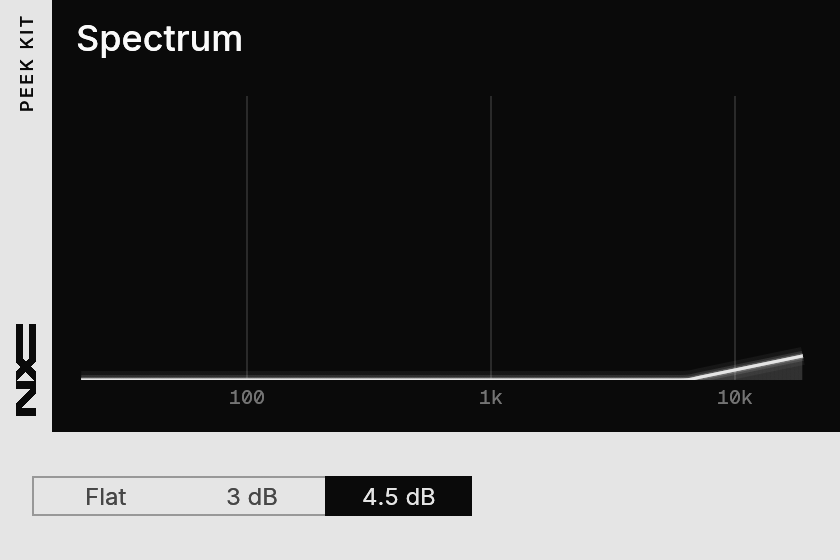
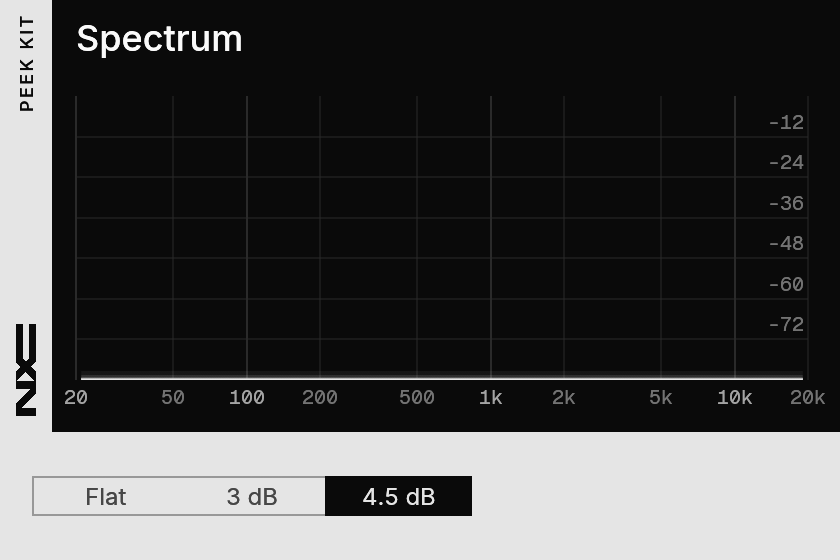
fix: keep a silent spectrum on the floor and add its scales

diff --git a/plugins/peek/peek-ui/src/spectrum.rs b/plugins/peek/peek-ui/src/spectrum.rs
@@ -24,20 +24,68 @@ pub fn centre(index: usize, bands: usize) -> f32 {
 }
 
 pub fn axis(ui: &Ui, palette: &Palette, rect: Rect) {
-    let painter = ui.painter_at(rect.expand(12.0));
-    for (hz, text) in [(100.0, "100"), (1_000.0, "1k"), (10_000.0, "10k")] {
+    let painter = ui.painter_at(rect.expand(14.0));
+    let labels = font::mono(FONT_VALUE);
+    // Every 1-2-5 step gets a line; the decades are stronger and every step
+    // that fits gets its figure.
+    let mut last_label = f32::NEG_INFINITY;
+    for (hz, text) in [
+        (20.0, "20"),
+        (50.0, "50"),
+        (100.0, "100"),
+        (200.0, "200"),
+        (500.0, "500"),
+        (1_000.0, "1k"),
+        (2_000.0, "2k"),
+        (5_000.0, "5k"),
+        (10_000.0, "10k"),
+        (20_000.0, "20k"),
+    ] {
         let x = rect.left() + x_of(hz) * rect.width();
+        let decade = text.starts_with('1') || hz == 20.0;
         painter.line_segment(
             [pos2(x, rect.top()), pos2(x, rect.bottom())],
-            Stroke::new(1.0, palette.line.color()),
+            Stroke::new(
+                1.0,
+                if decade {
+                    palette.line
+                } else {
+                    palette.line.at(0.5)
+                }
+                .color(),
+            ),
+        );
+        if x - last_label >= 26.0 {
+            last_label = x;
+            painter.text(
+                pos2(x, rect.bottom() + 2.0),
+                Align2::CENTER_TOP,
+                text,
+                labels.clone(),
+                if decade {
+                    palette.muted
+                } else {
+                    palette.subtle
+                }
+                .color(),
+            );
+        }
+    }
+    let mut db = TOP_DB - 12.0;
+    while db > FLOOR_DB {
+        let y = rect.bottom() - (db - FLOOR_DB) / (TOP_DB - FLOOR_DB) * rect.height();
+        painter.line_segment(
+            [pos2(rect.left(), y), pos2(rect.right(), y)],
+            Stroke::new(1.0, palette.line.at(0.5).color()),
         );
         painter.text(
-            pos2(x, rect.bottom() + 2.0),
-            Align2::CENTER_TOP,
-            text,
-            font::mono(FONT_VALUE),
+            pos2(rect.right() - 2.0, y - 1.0),
+            Align2::RIGHT_BOTTOM,
+            format!("{db:.0}"),
+            labels.clone(),
             palette.subtle.color(),
         );
+        db -= 12.0;
     }
 }
 
@@ -53,9 +101,12 @@ pub fn figure<const BANDS: usize>(
         .iter()
         .enumerate()
         .map(|(index, level)| {
-            let tilted = crate::decibels(*level).unwrap_or(FLOOR_DB - 12.0)
-                + tilt * (centre(index, BANDS) / 1_000.0).log2();
-            ((tilted - FLOOR_DB) / (TOP_DB - FLOOR_DB)).clamp(0.0, 1.0)
+            // Silence stays on the floor: tilting it lifted the top end of a
+            // silent spectrum by 19 dB.
+            crate::decibels(*level).map_or(0.0, |db| {
+                let tilted = db + tilt * (centre(index, BANDS) / 1_000.0).log2();
+                ((tilted - FLOOR_DB) / (TOP_DB - FLOOR_DB)).clamp(0.0, 1.0)
+            })
         })
         .collect();
     let shown = smooth::smoothed(ui, ui.id().with("peek-spectrum"), &db, smooth::TAU);
@@ -96,6 +147,19 @@ pub fn figure<const BANDS: usize>(
 #[cfg(test)]
 mod tests {
     use super::*;
+
+    #[test]
+    fn silence_is_on_the_floor_whatever_the_tilt() {
+        let ctx = egui::Context::default();
+        let _ = ctx.run_ui(Default::default(), |ui| {
+            let rect = egui::Rect::from_min_size(pos2(0.0, 0.0), egui::vec2(100.0, 100.0));
+            figure(ui, &Palette::PEEK, rect, &[0.0f32; 8], 4.5);
+            let shown: Vec<f32> = ui
+                .data(|data| data.get_temp(ui.id().with("peek-spectrum-peaks")))
+                .unwrap();
+            assert!(shown.iter().all(|value| *value == 0.0), "{shown:?}");
+        });
+    }
 
     #[test]
     fn the_axis_is_logarithmic() {
